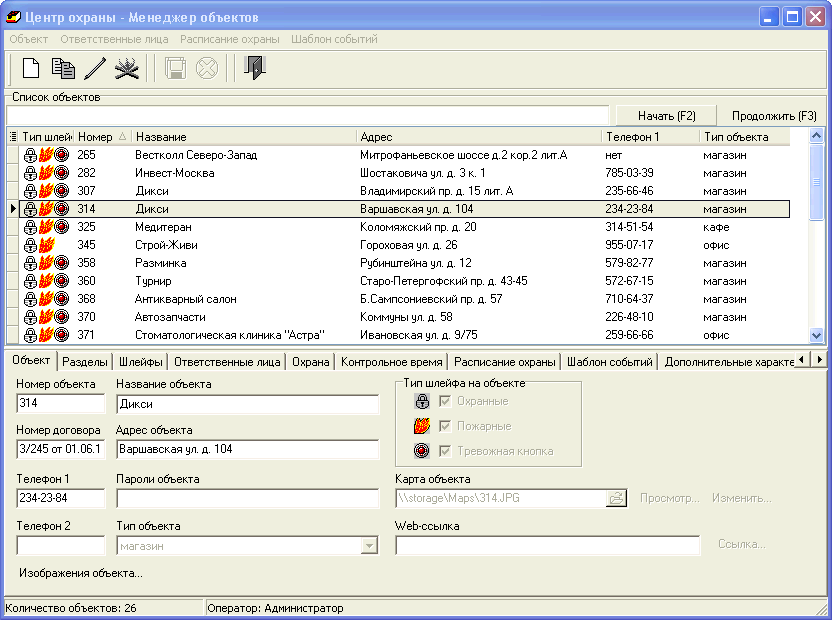
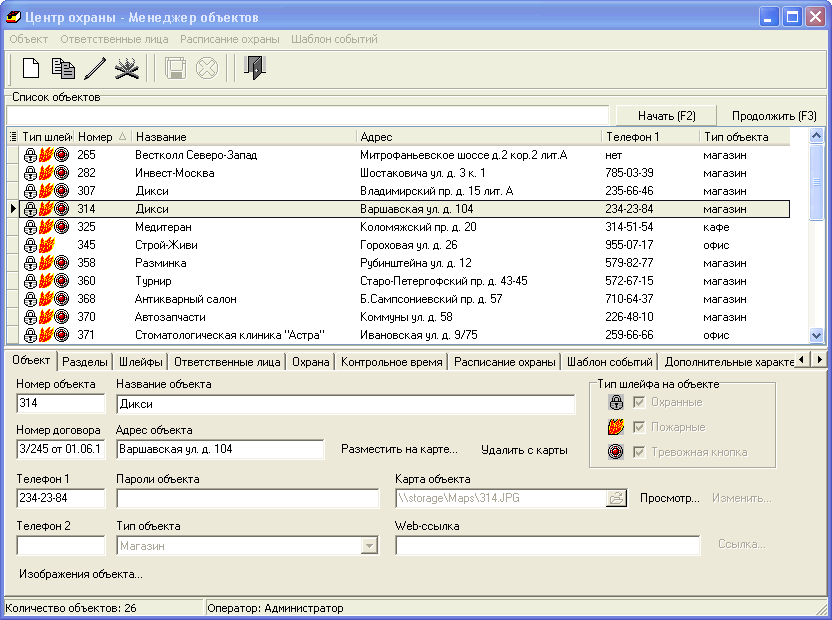
Добавлен раздел "Размещение объекта на карте"

diff --git a/russian/05-object-manager.md b/russian/05-object-manager.md
@@ -72,6 +72,22 @@
 
 ![Вкладка «Объект»][id-05-04]
 
+### Размещение объекта на карте
+
+Для отображения объекта на ситуационной карте оператору "Центра охраны", обладающему правом "Размещать объект на карте", следует задать в модуле "Менеджер объектов" географические координаты объекта, разместив его на карте местности.
+
+Для этого без перехода в режим редактирования объекта необходимо нажать кнопку "Разместить на карте...", расположенную рядом с полем "Адрес" на вкладке "Объект". Окно "Карта", вызванное данным действием, отображает карту сервиса Яндекс.Карты. На ней маркером отмечается местоположение объекта в соответствии со значением поля "Город", указанном при регистрации в "Облаке", и поля "Адрес", указанном на вкладке "Объект". Кроме того, в окне приводится краткая информация об объекте, а именно: номер, название и адрес объекта, а также комментарий для ГБР, введенный на вкладке "Комментарий".
+
+Наведя на него курсор и удерживая нажатой левую кнопку мыши, маркер можно переместить для указания более точного местоположения объекта на карте. Увеличение или уменьшение карты достигается с помощью ползунка изменения масштаба, а передвижение по карте возможно с помощью курсора. Выпадающий список позволяет изменить выбранный по умолчанию тип карты "Схема" на "Спутник", "Гибрид", "Народная карта", "Народная + спутник".
+
+![Вкладка «Объект»: размещение объекта на карте][id-05-04-01]
+
+После того, как маркер будет установлен, следует нажать кнопку "Сохранить" для сохранения созданных изменений или "Отменить" для отмены сохранения. Полученные координаты объекта будут сохранены в "Облаке" и в базе данных "Центра охраны". 
+
+Важно: размещение объектов на карте возможно при выполненном подключении к Облаку и открытых портах 80 и 443 протокола TCP для компьютера, на котором запущен модуль "Менеджер объектов".
+
+Для удаления введенных координат объекта с карты необходимо кликнуть по кнопке "Удалить с карты" и затем подтвердить удаление. При этом информация о координатах объекта будет удалена как из Облака, так и из базы данных "Центра охраны".
+
 ### Карта объекта
 
 В качестве значения для поля «Карта объекта» можно указывать как файлы форматов BMP и JPG, так и файлы карт объектов, созданные с помощью модуля «Карты объектов». Кнопка «Изменить...», расположенная рядом с полем «Карта объекта», доступна для нажатия только в том случае, если указан файл карты объекта: при ее нажатии для изменения карты объекта будет запущен модуль «Карты объектов».
@@ -102,7 +118,7 @@
 
 После выбора графических файлов следует нажать кнопку "Отправить", при этом размер изображений будет автоматически приведен к оптимальному для отображения на планшете в мобильном приложении "Тревога в ГБР". Индикатор выполнения в поле "Прогресс" отобразит статус загрузки выбранных изображений. Закрывать окно "Изображения объекта" или выбирать новые графические файлы для закачивания нельзя до окончания загрузки предыдущих.
 
-![Вкладка «Объект»: изображения объекта][id-05-04-01]
+![Вкладка «Объект»: изображения объекта][id-05-04-02]
 
 Перемещение или удаление с жесткого диска сохраненных в Облаке графических файлов не приводит к их потере в Облаке. Для удаления загруженного изображения из Облака необходимо навести курсор на его миниатюру в окне "Изображения объекта" и кликнуть на появляющемся при этом значке "Корзина".
 
@@ -385,7 +401,8 @@
 [id-05-03-03]: img/ObjMngr-03-ObjectList-03.png "Список объектов: окно настройки фильтрации"
 [id-05-03-04]: img/ObjMngr-03-ObjectList-04.png "Список объектов: результат фильтрации сравнением «похоже на %ик%»"
 [id-05-04]: img/ObjMngr-04-Object.png "Вкладка «Объект»"
-[id-05-04-01]: img/ObjMngr-04-ObjectImage-03.PNG "Вкладка «Объект»: изображения объекта"
+[id-05-04-01]: img/ObjMngr-04-PlaceObject-01.png "Вкладка «Объект»: размещение объекта на карте"
+[id-05-04-02]: img/ObjMngr-04-ObjectImage-02.png "Вкладка «Объект»: изображения объекта"
 [id-05-05]: img/ObjMngr-05-Parts.png "Вкладка «Разделы»"
 [id-05-06]: img/ObjMngr-06-Zones.png "Вкладка «Шлейфы»"
 [id-05-07]: img/ObjMngr-07-DoorKeys.png "Вкладка «Ответственные лица»"

diff --git a/russian/07-personnel-manager.md b/russian/07-personnel-manager.md
@@ -64,6 +64,8 @@
 
 * «Редактировать изображения объекта» - разрешение на изменение изображений объекта. Данные изображения используются в приложении "Тревога в ГБР" для предоставления более полной информации об объекте.
 
+* «Размещать объект на карте» - разрешение на изменение местоположения объекта на карте.
+
 * «Редактировать дополнительные характеристики» — разрешение на изменение значений дополнительных характеристик объекта. В дополнительных характеристиках объекта может храниться важная информация.
 
 * «Редактировать отключение» — разрешение на изменение параметров отключения объекта. Для отключенных объектов «Центр охраны» выполняет автоматическую отмену тревог, не привлекая к ним внимания дежурного оператора.
